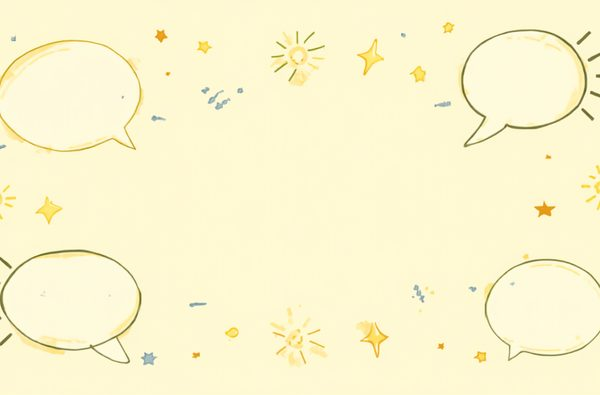
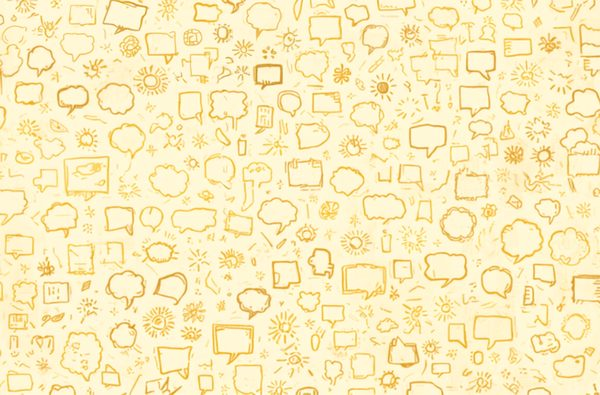
Denser exclamation card art; title scrim hugs the label width
Absolute positioning with both left and right forced the scrim to stretch;
the wrapper now only positions and an inner view shrinks to the text.

diff --git a/app/tabs/category/index.tsx b/app/tabs/category/index.tsx
@@ -211,15 +211,17 @@ export default function CategoryScreen() {
                   )}
                 </View>
                 {/* 이미지 카드 한정 스크림 — 배경 그림이 복잡해도 이름이 항상 읽히게 */}
-                <View style={[styles.cardTextWrap, item.image ? styles.cardTextScrim : null]}>
-                  <Text
-                    style={[styles.categoryName, { color: labelColor }]}
-                    numberOfLines={1}
-                    adjustsFontSizeToFit
-                    minimumFontScale={0.6}
-                  >
-                    {getCategoryName(item, language).replace('\n', ' ')}
-                  </Text>
+                <View style={styles.cardTextWrap}>
+                  <View style={item.image ? styles.cardTextScrim : null}>
+                    <Text
+                      style={[styles.categoryName, { color: labelColor }]}
+                      numberOfLines={1}
+                      adjustsFontSizeToFit
+                      minimumFontScale={0.6}
+                    >
+                      {getCategoryName(item, language).replace('\n', ' ')}
+                    </Text>
+                  </View>
                 </View>
               </CardBg>
             </TouchableOpacity>
@@ -320,12 +322,13 @@ const styles = StyleSheet.create({
   },
   likeBtn: { width: 32, height: 32, alignItems: 'center', justifyContent: 'center' },
   likeIcon: { width: 24, height: 24 },
-  cardTextWrap: { position: 'absolute', left: 12, right: 12, bottom: 10 },
+  /* absolute 박스에 left+right를 함께 주면 폭이 강제로 늘어나 스크림이 제목보다 길어진다 —
+   * 바깥 래퍼가 위치만 잡고, 안쪽 스크림 View가 내용 폭에 딱 맞게 줄어든다(alignItems). */
+  cardTextWrap: { position: 'absolute', left: 8, right: 8, bottom: 8, alignItems: 'flex-start' },
   cardTextScrim: {
-    left: 8, right: 8, bottom: 8,
     backgroundColor: 'rgba(246, 242, 234, 0.85)',
     borderRadius: 8, paddingHorizontal: 6, paddingVertical: 3,
-    alignSelf: 'flex-start',
+    maxWidth: '100%',
   },
   /* 한 줄 고정 + 축소 맞춤(줄임표 금지) — 스크림(alignSelf flex-start)이 제목 폭에 딱 맞게 줄어든다 */
   categoryName: { fontSize: 16, lineHeight: 21, fontFamily: 'NotoSerifKR_600SemiBold', color: Colors.textEmphasis },
